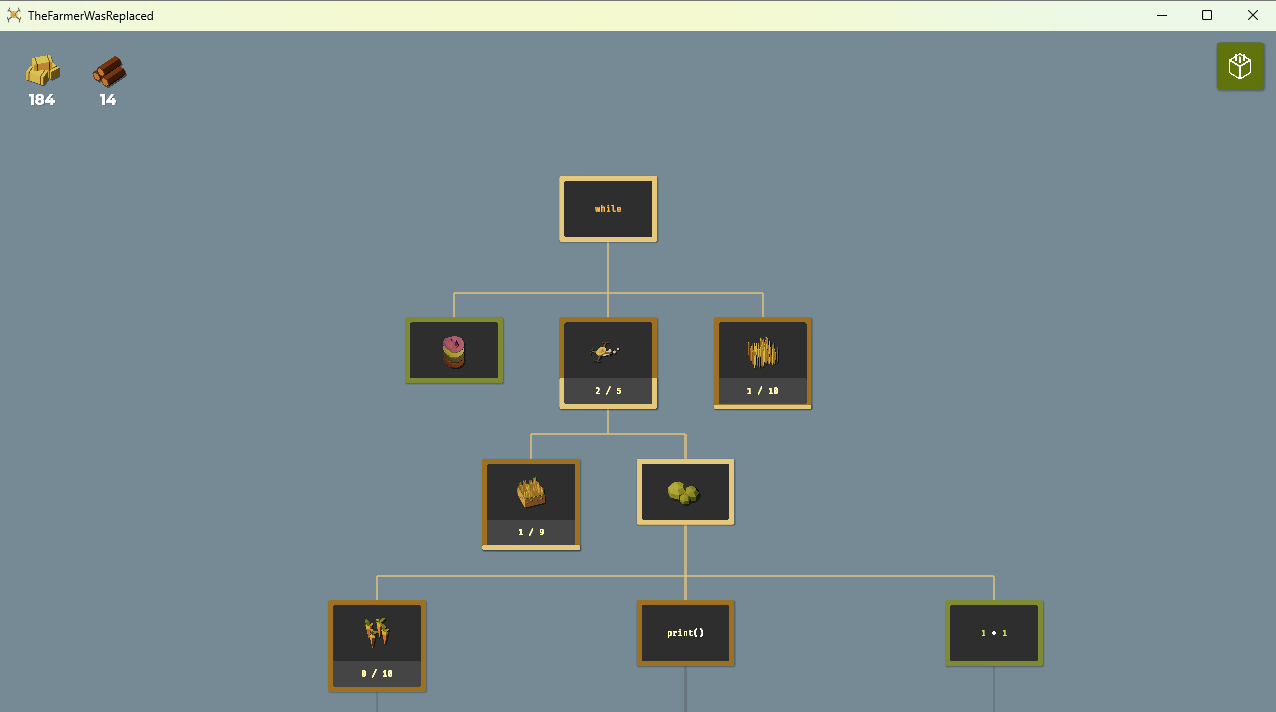
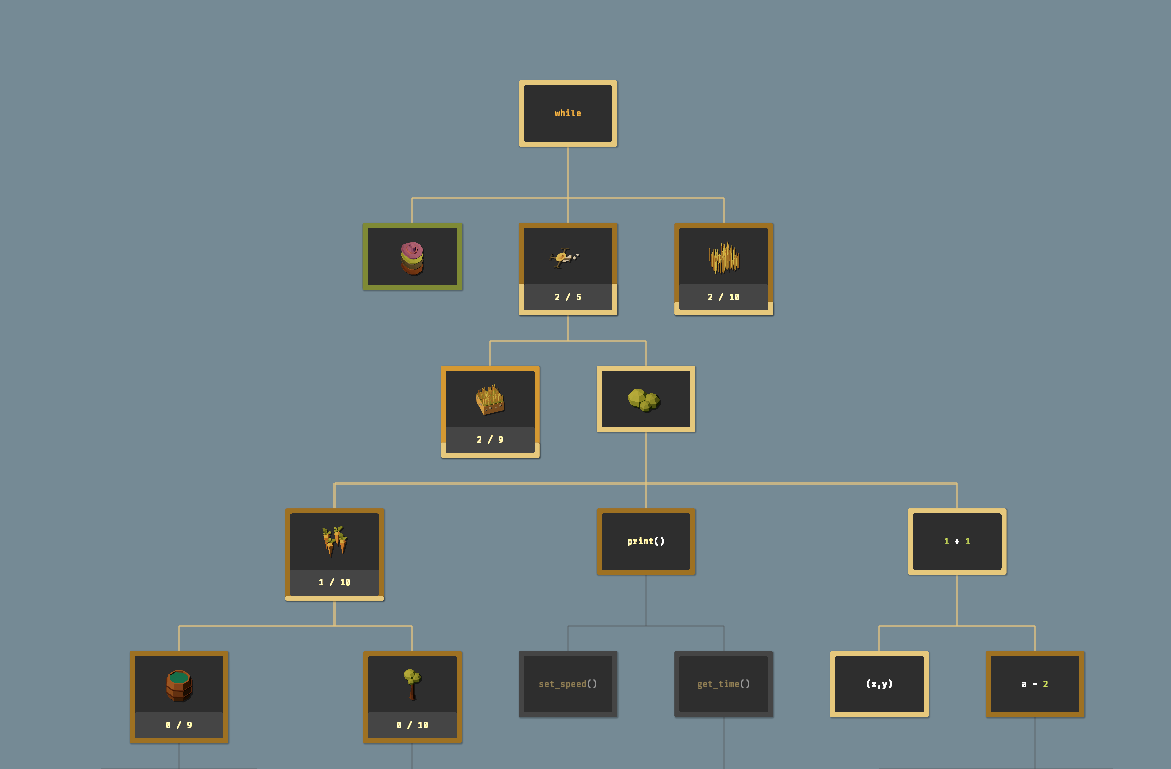
Desbbloqueia senses

diff --git a/grass.py b/grass.py
@@ -1,5 +1,4 @@
 while True:
 	if can_harvest():
 		harvest()
-	else:
-		move(North)
+	move(North)

diff --git a/problema.md b/problema.md
@@ -1,0 +1,11 @@
+# Problema atual
+
+Nosso próximo objetivo seria desbloquear a atribuição de variáveis (35 cenouras).
+
+Plantar uma cenoura custa 1 grama e 1 madeira.
+
+Temos um mapa de 3x3 e para aproveitar o máximo dele com o cultivo de cenouras (que demoram para crescer), temos que navegar para a próxima coluna.
+
+O drone sempre volta para primeira linha quando ultrapassa a última linha ou para a primeira coluna quando ultrapassa a última coluna.
+
+Minha ideia é um loop simples, chegou no final, move para a direita, chegou no final novamente, volta para o começo.
